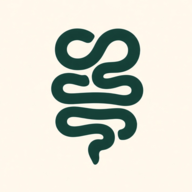
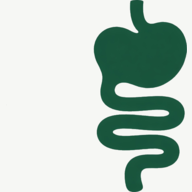
Update brand to solid stomach and gut mark.
Use the new mark for favicons, PWA icons, admin logos, and a soft hero watermark.

diff --git a/app/Providers/Filament/AdminPanelProvider.php b/app/Providers/Filament/AdminPanelProvider.php
@@ -9,6 +9,8 @@ use Filament\Http\Middleware\DispatchServingFilamentEvent;
 use Filament\Pages\Dashboard;
 use Filament\Panel;
 use Filament\PanelProvider;
+use Filament\View\PanelsRenderHook;
+use Illuminate\Support\Facades\Blade;
 use Filament\Support\Colors\Color;
 use Filament\Widgets\AccountWidget;
 use Filament\Widgets\FilamentInfoWidget;
@@ -27,11 +29,19 @@ class AdminPanelProvider extends PanelProvider
             ->default()
             ->id('admin')
             ->brandName(config('app.name'))
-            ->brandLogo(asset('brand/logo-admin-light.png').'?v=gut6')
+            ->brandLogo(asset('brand/favicon-light-192.png').'?v=gut18')
+            ->darkModeBrandLogo(asset('brand/favicon-dark-192.png').'?v=gut18')
             ->brandLogoHeight('2rem')
             ->homeUrl(fn (): string => route('home'))
             ->path('admin')
             ->login()
+            ->renderHook(
+                PanelsRenderHook::HEAD_END,
+                fn (): string => Blade::render(<<<'HTML'
+                    <link rel="icon" href="{{ asset('brand/favicon-light-32.png') }}?v=gut18" type="image/png" sizes="32x32" media="(prefers-color-scheme: light)">
+                    <link rel="icon" href="{{ asset('brand/favicon-dark-32.png') }}?v=gut18" type="image/png" sizes="32x32" media="(prefers-color-scheme: dark)">
+                HTML),
+            )
             ->colors([
                 'primary' => Color::hex('#1F6B4A'),
             ])

diff --git a/resources/views/layouts/app.blade.php b/resources/views/layouts/app.blade.php
@@ -12,10 +12,10 @@
     <meta name="apple-mobile-web-app-title" content="Candidakuur">
     <meta name="apple-mobile-web-app-status-bar-style" content="black-translucent">
     <link rel="manifest" href="{{ asset('manifest.json') }}">
-    <link rel="icon" href="{{ asset('brand/favicon-light-32.png') }}?v=gut6" type="image/png" sizes="32x32" media="(prefers-color-scheme: light)">
-    <link rel="icon" href="{{ asset('brand/favicon-dark-32.png') }}?v=gut6" type="image/png" sizes="32x32" media="(prefers-color-scheme: dark)">
-    <link rel="icon" href="{{ asset('favicon.ico') }}?v=gut6" sizes="any">
-    <link rel="apple-touch-icon" href="{{ asset('brand/apple-touch-icon.png') }}?v=gut6">
+    <link rel="icon" href="{{ asset('brand/favicon-light-32.png') }}?v=gut18" type="image/png" sizes="32x32" media="(prefers-color-scheme: light)">
+    <link rel="icon" href="{{ asset('brand/favicon-dark-32.png') }}?v=gut18" type="image/png" sizes="32x32" media="(prefers-color-scheme: dark)">
+    <link rel="icon" href="{{ asset('favicon.ico') }}?v=gut18" sizes="any">
+    <link rel="apple-touch-icon" href="{{ asset('brand/apple-touch-icon.png') }}?v=gut18">
     @fonts
     @vite(['resources/css/app.css', 'resources/js/app.js'])
 </head>

diff --git a/resources/views/partials/header.blade.php b/resources/views/partials/header.blade.php
@@ -12,12 +12,9 @@
 
 <header class="sticky top-0 z-40 border-b border-line/80 bg-paper/80 backdrop-blur-md">
     <div class="mx-auto flex max-w-6xl items-center justify-between gap-4 px-4 py-3 sm:px-6">
-        <a href="{{ $home }}" class="flex items-center gap-2.5">
-            <img src="{{ asset('brand/logo-header.png') }}?v=gut6" alt="" width="28" height="28" class="h-7 w-7 shrink-0" decoding="async">
-            <span class="flex items-baseline gap-2">
-                <span class="text-lg font-semibold tracking-tight text-ink">Candidakuur</span>
-                <span class="text-[11px] font-medium uppercase tracking-[0.16em] text-muted">Anti-candida</span>
-            </span>
+        <a href="{{ $home }}" class="flex items-baseline gap-2">
+            <span class="text-lg font-semibold tracking-tight text-ink">Candidakuur</span>
+            <span class="text-[11px] font-medium uppercase tracking-[0.16em] text-muted">Anti-candida</span>
         </a>
         <nav class="hidden items-center gap-1 md:flex">
             @foreach ($links as $link)

diff --git a/resources/views/landing.blade.php b/resources/views/landing.blade.php
@@ -9,6 +9,15 @@
 <section class="relative overflow-hidden">
     <div class="pointer-events-none absolute inset-0 bg-[radial-gradient(ellipse_at_top_right,_var(--color-accent-soft)_0%,_transparent_55%)]"></div>
     <div class="pointer-events-none absolute -left-20 bottom-0 h-72 w-72 rounded-full bg-conditional-soft/70 blur-2xl"></div>
+    <img
+        src="{{ asset('brand/logo-hero.png') }}?v=gut18"
+        alt=""
+        width="640"
+        height="900"
+        decoding="async"
+        aria-hidden="true"
+        class="pointer-events-none absolute top-1/2 right-[clamp(2.5rem,6vw,7rem)] hidden h-auto w-[min(40vw,32rem)] -translate-y-1/2 select-none opacity-25 sm:block"
+    >
     <div class="relative mx-auto max-w-6xl px-4 pb-16 pt-14 sm:px-6 sm:pb-24 sm:pt-20">
         <p class="text-xs font-medium uppercase tracking-[0.22em] text-accent">3 weken · Candidakuur</p>
         <h1 class="mt-5 max-w-3xl text-4xl font-semibold tracking-tight text-ink sm:text-6xl sm:leading-[1.05]">
